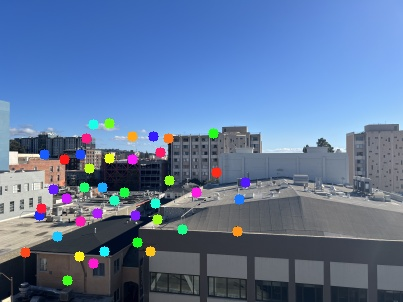
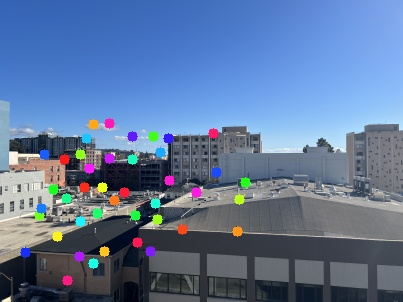
upd verbose
NEXT: i need to make the algorithm faster...
right now the recursive matching is very slow (I THINK)
might be better to do each 2 neighborhood images at a time and calculate H and project later

diff --git a/p4b/B1.py b/p4b/B1.py
@@ -8,7 +8,7 @@ from skimage.feature import corner_harris, peak_local_max
 # GIVEN
 
 
-def get_harris_corners(im, edge_discard=20):
+def get_harris_corners(im, edge_discard=20, verbose=True):
     """
     This function takes a b&w image and an optional amount to discard
     on the edge (default is 5 pixels), and finds all harris corners
@@ -33,6 +33,8 @@ def get_harris_corners(im, edge_discard=20):
            (coords[:, 1] > edge) & \
            (coords[:, 1] < im.shape[1] - edge)
     coords = coords[mask].T
+    if verbose:
+        print("Harris corners:", coords.shape)
     return h, coords
 
 
@@ -65,8 +67,9 @@ def dist2(x, c):
 # ME AND MYSELF
 
 
-def get_anms_corners(im):
-    harris_response_image, corners = get_harris_corners(im)
+def get_anms_corners(im, verbose=True):
+    k = 250
+    harris_response_image, corners = get_harris_corners(im, verbose=verbose)
     # maybe cap the corners to like 5000 (LATER) so that my computer doesn't crash out on compute...
     cornersT = corners.T
     h = harris_response_image[corners[0], corners[1]]
@@ -79,7 +82,9 @@ def get_anms_corners(im):
         else:
             r[i] = np.inf
     sorted = np.argsort(r)
-    best = sorted[::-1][:250]
+    best = sorted[::-1][:k]
+    if verbose:
+        print("ANMS corners:", k)
     return harris_response_image, corners[:, best]
 
 

diff --git a/p4b/B4.py b/p4b/B4.py
@@ -30,19 +30,21 @@ def ransac(pts1, pts2):
 
 
 def get_corrs(im1, im2, verbose=True):
+    if verbose:
+        print("CORRELATING...")
     im1_gray = cv2.cvtColor(im1, cv2.COLOR_BGR2GRAY)
     im2_gray = cv2.cvtColor(im2, cv2.COLOR_BGR2GRAY)
 
-    _, corners1 = get_anms_corners(im1_gray)
+    _, corners1 = get_anms_corners(im1_gray, verbose=verbose)
     # print("corners1:", corners1.shape)
-    _, corners2 = get_anms_corners(im2_gray)
+    _, corners2 = get_anms_corners(im2_gray, verbose=verbose)
 
     fds1 = np.array([extract_feature_descriptor(im1_gray, corner).flatten()
                      for corner in corners1.T])
     # print("fds1:", fds1.shape)
     fds2 = np.array([extract_feature_descriptor(im2_gray, corner).flatten()
                      for corner in corners2.T])
-    matches = find_matches(fds1, fds2)
+    matches = find_matches(fds1, fds2, verbose=verbose)
     # print("matches:", len(matches))
     # [::-1] to convert from (y,x) -> (x,y), smh so stupid
     pts1 = np.array([corners1[:, i][::-1] for i, j in matches])

diff --git a/p4b/B3.py b/p4b/B3.py
@@ -8,7 +8,7 @@ from B1 import dist2, get_anms_corners
 from B2 import color_gen, extract_feature_descriptor
 
 
-def find_matches(fds1, fds2, t=0.6):
+def find_matches(fds1, fds2, t=0.6, verbose=True):
     d2s = dist2(fds1, fds2)
     matches = []
     for i in range(len(fds1)):
@@ -19,6 +19,8 @@ def find_matches(fds1, fds2, t=0.6):
         nn2_id = best_js[1]
         if d[nn1_id] / d[nn2_id] < t:
             matches.append((i, nn1_id))
+    if verbose:
+        print("Lowe's matches:", len(matches))
     return matches
 
 
